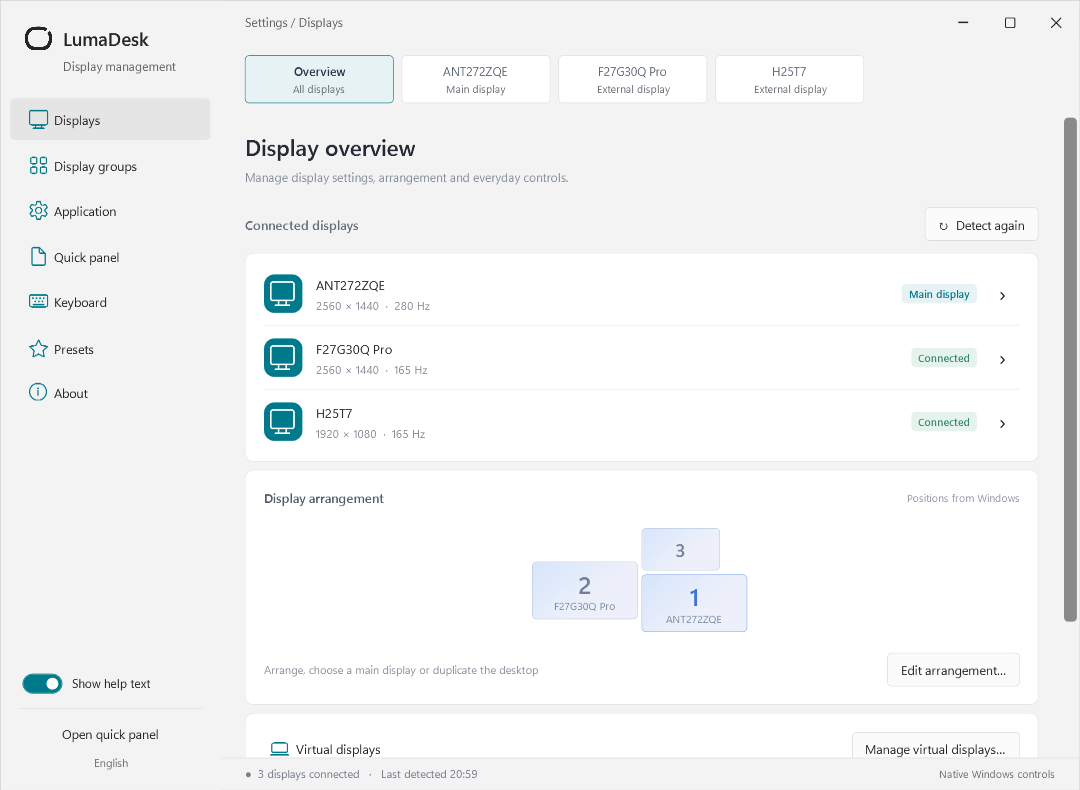
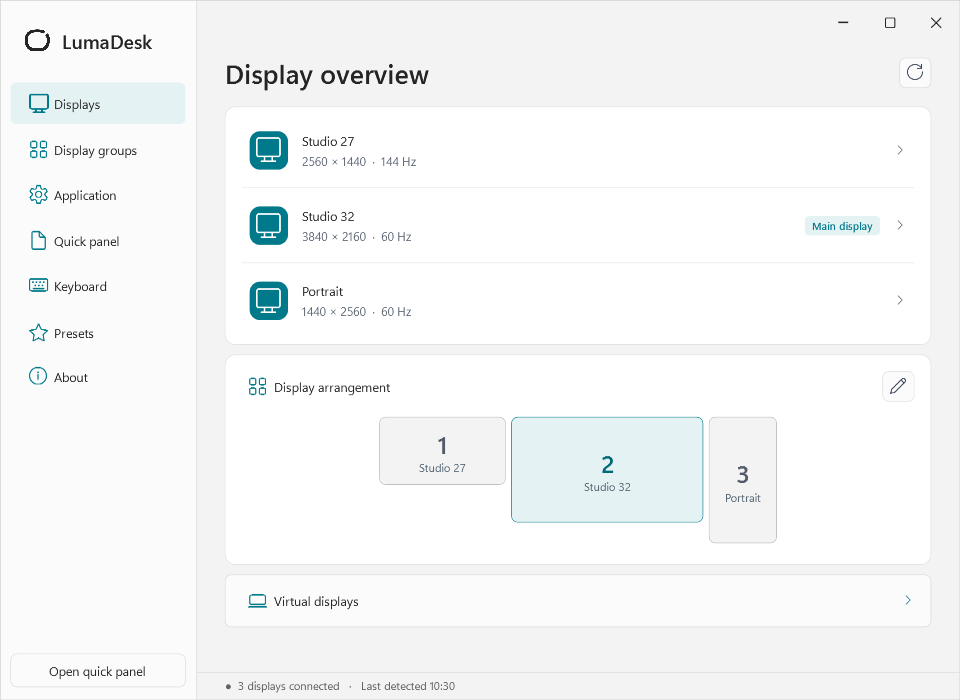
Package a slim Windows build and refresh the bilingual UI demos

diff --git a/tests/LumaDesk.UiTests/ReadmeDemo.cs b/tests/LumaDesk.UiTests/ReadmeDemo.cs
@@ -10,14 +10,35 @@ using System.Windows;
 using System.Windows.Automation;
 using System.Windows.Controls;
 using System.Windows.Controls.Primitives;
+using System.Windows.Interop;
+using System.Windows.Media;
+using Rectangle = System.Windows.Shapes.Rectangle;
 
 internal static partial class Program
 {
-    // Documentation capture: real controls, isolated settings, no hardware writes.
-    private static async Task CaptureReadmeDemoAsync(MainWindow window)
+    private static FrameworkElement ArrangeContent(Window window, double width, double height)
     {
-        Snapshot(window, "settings.png");
-        var real = window.Displays;
+        var surface = (FrameworkElement)window.Content;
+        surface.Measure(new Size(width, height)); surface.Arrange(new Rect(0, 0, width, height)); surface.UpdateLayout();
+        return surface;
+    }
+
+    private static int RunReadmeDemo(App app)
+    {
+        RenderOptions.ProcessRenderMode = RenderMode.SoftwareOnly;
+        app.ShutdownMode = ShutdownMode.OnExplicitShutdown;
+        app.Dispatcher.BeginInvoke(new Action(async () =>
+        {
+            try { await CaptureReadmeDemoAsync(); app.Shutdown(0); }
+            catch (Exception ex) { Console.Error.WriteLine(ex); app.Shutdown(1); }
+        }));
+        return app.Run();
+    }
+
+    // Render detached production controls so the capture never starts a tray, screen scan or native popup.
+    private static async Task CaptureReadmeDemoAsync()
+    {
+        var window = new MainWindow(() => true);
         window.Displays = new()
         {
             new() { Id = "demo-left", Number = 1, Name = "Studio 27", X = -2560, Current = new(2560, 1440, 144), Brightness = 60, DpiScale = DpiRules.FromRelative(0, 0, 2) },
@@ -27,6 +48,10 @@ internal static partial class Program
         window.Preferences.QuickSelectedDisplayId = "demo-main";
         window.Preferences.QuickMoreDisplayId = null;
         window.Preferences.SyncBrightness = false;
+        foreach (var display in window.Displays) display.Modes.Add(display.Current);
+        window.RefreshView();
+        window.StatusLabel.Text = L.F("sd1362bfd3f", window.Displays.Count, new DateTime(2026, 1, 1, 10, 30, 0));
+        Snapshot(ArrangeContent(window, 960, 700), "settings.png");
         Task SetBrightness(DisplayInfo display, int value)
         {
             var split = BrightnessRules.Split(value, true);
@@ -34,7 +59,7 @@ internal static partial class Program
             return Task.CompletedTask;
         }
         var quick = new QuickWindow(window, (_, _, _) => Task.CompletedTask, dismissOnDeactivate: false,
-            applyBrightness: SetBrightness,
+            applyBrightness: SetBrightness, readHdrActive: _ => Task.FromResult(false),
             applySelectedBrightness: async (ids, value) =>
             {
                 foreach (var display in window.Displays.Where(d => ids.Contains(d.Id))) await SetBrightness(display, value);
@@ -43,37 +68,57 @@ internal static partial class Program
         using var timeline = new StreamWriter(Path.Combine(output, "frames.tsv"));
         async Task Frame(int duration, string stage)
         {
-            await Task.Delay(100); quick.UpdateLayout();
+            await Task.Delay(100);
+            var surface = ArrangeContent(quick, quick.Width, quick.Height);
             string name = $"frame-{frame++:D3}.png";
-            Snapshot(quick, name); timeline.WriteLine($"{name}\t{duration}\t{stage}");
+            if (stage == "menu") SnapshotDisplayMenu(surface, name);
+            else Snapshot(surface, name);
+            var brightness = Descendants<Slider>(surface)
+                .OrderBy(s => s.TranslatePoint(new Point(), surface).Y).First();
+            var bottom = brightness.TranslatePoint(new Point(0, brightness.ActualHeight), surface).Y;
+            timeline.WriteLine($"{name}\t{duration}\t{stage}\t{(int)Math.Ceiling(bottom)}");
         }
         void Press(string id) => PressQuickAction(quick, id);
-        try
+        quick.Render();
+        await Frame(1600, "select"); Snapshot((FrameworkElement)quick.Content, "quick-panel.png");
+        Press("quick-display-select-1"); await Frame(1000, "select");
+        Press("quick-display-select-3"); await Frame(1000, "select");
+        Press("quick-display-select-2"); await Frame(1800, "menu");
+        Press("quick-multi-toggle"); await Frame(1000, "link");
+        Press("quick-display-select-1"); await Frame(800, "link");
+        Press("quick-display-select-3"); await Frame(800, "link");
+        var slider = Descendants<Slider>((FrameworkElement)quick.Content).Single(s => AutomationProperties.GetAutomationId(s) == "quick-multi-brightness");
+        slider.RaiseEvent(new DragStartedEventArgs(0, 0) { RoutedEvent = Thumb.DragStartedEvent });
+        foreach (int value in Enumerable.Range(0, 25).Select(i => 68 - i * 2))
         {
-            window.Hide(); quick.Render(); quick.Show();
-            await Frame(1600, "select"); Snapshot(quick, "quick-panel.png");
-            SelectQuick(quick, 1); await Frame(1000, "select");
-            SelectQuick(quick, 3); await Frame(1000, "select");
-            SelectQuick(quick, 2); Press("quick-more-toggle-2"); await Frame(2000, "more");
-            Press("quick-more-toggle-2"); Press("quick-multi-toggle"); await Frame(1000, "link");
-            SelectQuick(quick, 1); await Frame(800, "link");
-            SelectQuick(quick, 3); await Frame(800, "link");
-            var slider = Descendants<Slider>(quick).Single(s => AutomationProperties.GetAutomationId(s) == "quick-multi-brightness");
-            slider.RaiseEvent(new DragStartedEventArgs(0, 0) { RoutedEvent = Thumb.DragStartedEvent });
-            foreach (int value in Enumerable.Range(0, 25).Select(i => 68 - i * 2))
-            {
-                slider.Value = value; await Frame(70, "adjust");
-            }
-            foreach (int value in Enumerable.Range(0, 21).Select(i => 20 + i * 3))
-            {
-                slider.Value = value; await Frame(70, "adjust");
-            }
-            slider.RaiseEvent(new DragCompletedEventArgs(0, 0, false) { RoutedEvent = Thumb.DragCompletedEvent });
-            await Frame(1600, "adjust");
-            Press("quick-multi-toggle"); await Frame(1000, "done");
-            ThemeService.Apply("dark"); await Frame(1800, "theme"); Snapshot(quick, "quick-panel-dark.png");
-            ThemeService.Apply("light"); await Frame(800, "done");
+            slider.Value = value; await Frame(70, "adjust");
         }
-        finally { quick.Close(); window.Displays = real; }
+        foreach (int value in Enumerable.Range(0, 21).Select(i => 20 + i * 3))
+        {
+            slider.Value = value; await Frame(70, "adjust");
+        }
+        slider.RaiseEvent(new DragCompletedEventArgs(0, 0, false) { RoutedEvent = Thumb.DragCompletedEvent });
+        await Frame(1600, "adjust");
+        Press("quick-multi-toggle"); await Frame(1000, "done");
+        ThemeService.Apply("dark"); await Frame(1800, "theme"); Snapshot((FrameworkElement)quick.Content, "quick-panel-dark.png");
+        ThemeService.Apply("light"); await Frame(800, "done");
+        Check(new WindowInteropHelper(quick).Handle == IntPtr.Zero && new WindowInteropHelper(window).Handle == IntPtr.Zero,
+            "README capture uses detached WPF controls");
+    }
+
+    private static void SnapshotDisplayMenu(FrameworkElement surface, string name)
+    {
+        var trigger = Descendants<Button>(surface).Single(b => AutomationProperties.GetAutomationId(b) == "quick-display-actions");
+        var menu = trigger.ContextMenu;
+        menu.Measure(new Size(double.PositiveInfinity, double.PositiveInfinity));
+        menu.Arrange(new Rect(menu.DesiredSize)); menu.UpdateLayout();
+        var frame = new Canvas { Width = surface.ActualWidth, Height = surface.ActualHeight };
+        frame.Children.Add(new Rectangle { Width = frame.Width, Height = frame.Height, Fill = new ImageBrush(Capture(surface)) });
+        var anchor = trigger.TranslatePoint(new Point(trigger.ActualWidth, trigger.ActualHeight), surface);
+        var popup = new Rectangle { Width = menu.ActualWidth, Height = menu.ActualHeight, Fill = new ImageBrush(Capture(menu)) };
+        Canvas.SetLeft(popup, Math.Max(0, anchor.X - popup.Width)); Canvas.SetTop(popup, anchor.Y);
+        frame.Children.Add(popup);
+        frame.Measure(new Size(frame.Width, frame.Height)); frame.Arrange(new Rect(0, 0, frame.Width, frame.Height));
+        Snapshot(frame, name);
     }
 }

diff --git a/tools/make-readme-demo.py b/tools/make-readme-demo.py
@@ -4,47 +4,22 @@ Requires Pillow. Does not synthesize app controls or alter screen settings.
 """
 from pathlib import Path
 import shutil
-from PIL import Image, ImageDraw, ImageFont
+from PIL import Image
 
 ROOT = Path(__file__).resolve().parents[1]
 DEST = ROOT / "docs/images"
 
 for language, suffix in [("zh", ""), ("en", "-en")]:
     source = ROOT / f"artifacts/readme-{language}"
-    font_path = "C:/Windows/Fonts/msyh.ttc" if language == "zh" else "C:/Windows/Fonts/segoeui.ttf"
-    font = lambda size: ImageFont.truetype(font_path, size)
-    captions = {
-        "select": ("01", "点选屏幕", "按桌面位置，找到那块屏幕。"),
-        "more": ("02", "更多设置", "常用调节在眼前，\n其他选项按需展开。"),
-        "link": ("03", "一起调亮度", "勾选想调的屏幕。\n其余屏幕保持原样。"),
-        "adjust": ("04", "拖动就好", "一次调整，多屏同步。"),
-        "done": ("05", "回到单屏", "点一下“完成”，\n继续调整当前屏幕。"),
-        "theme": ("06", "深浅皆宜", "随系统切换，\n也可以自己选。"),
-    } if language == "zh" else {
-        "select": ("01", "Pick a screen", "Find it by its position\non your desk."),
-        "more": ("02", "More controls", "Keep the basics close.\nExpand when you need more."),
-        "link": ("03", "Link brightness", "Select the screens\nyou want to adjust."),
-        "adjust": ("04", "Just drag", "One adjustment.\nSeveral screens."),
-        "done": ("05", "Back to one", "Choose Done to return\nto single-screen controls."),
-        "theme": ("06", "Light or dark", "Follow your system,\nor choose your own."),
-    }
     frames, durations = [], []
-    for row in (source / "frames.tsv").read_text(encoding="utf-8-sig").splitlines():
-        name, duration, stage = row.split("\t")
-        frame = Image.new("RGB", (760, 740), "#eaf0f2")
-        draw = ImageDraw.Draw(frame)
-        draw.text((30, 32), "LumaDesk", font=font(25), fill="#16383d")
-        number, title, detail = captions[stage]
-        draw.text((30, 224), number, font=font(46), fill="#007e8b")
-        draw.text((30, 294), title, font=font(27), fill="#182d34")
-        draw.multiline_text((30, 346), detail, font=font(17), spacing=8, fill="#52646b")
-        panel = Image.open(source / name).convert("RGBA")
-        # Rounded clipping reproduces the window outline omitted by RenderTargetBitmap.
-        mask = Image.new("L", panel.size, 0)
-        ImageDraw.Draw(mask).rounded_rectangle((0, 0, panel.width-1, panel.height-1), radius=12, fill=255)
-        frame.paste(panel, (368, 60), mask)
-        footer = "实际界面 · 示例屏幕 · 模拟亮度写入" if language == "zh" else "Actual UI / sample screens / simulated brightness writes"
-        draw.text((30, 698), footer, font=font(14), fill="#65777e")
+    timeline = [row.split("\t") for row in (source / "frames.tsv").read_text(encoding="utf-8-sig").splitlines()]
+    # Keep the display map and brightness thumb in the same place as the panel changes modes.
+    height = max(int(bottom) for _, _, _, bottom in timeline) + 3
+    for name, duration, _, _ in timeline:
+        with Image.open(source / name) as image:
+            panel = image.convert("RGBA").crop((0, 0, image.width, height))
+        frame = Image.new("RGB", panel.size, panel.getpixel((panel.width // 2, 4))[:3])
+        frame.paste(panel, mask=panel.getchannel("A"))
         frames.append(frame.quantize(colors=128, method=Image.Quantize.MEDIANCUT))
         durations.append(int(duration))
     target = DEST / f"quick-demo{suffix}.gif"

diff --git a/tests/LumaDesk.UiTests/Program.cs b/tests/LumaDesk.UiTests/Program.cs
@@ -29,6 +29,7 @@ internal static partial class Program
         string language = args.Length > 1 ? args[1] : "zh-Hans";
         Storage.Save(new Preferences { Language = language, Theme = "light", Hotkeys = false, CloseToTray = false });
         var app = new App { IntegrationTest = true }; app.InitializeComponent();
+        if (args.Contains("--demo")) return RunReadmeDemo(app);
         var window = new MainWindow();
         window.Loaded += async (_, _) =>
         {
@@ -39,11 +40,6 @@ internal static partial class Program
                 await Task.Delay(200);
                 Check(window.Displays.Count > 0, "Actual display scan populates overview");
                 TestDeferredSettingsRendering(window);
-                if (args.Contains("--demo"))
-                {
-                    await CaptureReadmeDemoAsync(window);
-                    return;
-                }
                 if (language != "zh-Hans")
                 {
                     await TestLocalizedUiAsync(window, language);
@@ -549,9 +545,13 @@ internal static partial class Program
             foreach (var sub in Descendants<T>(child)) yield return sub;
         }
     }
-    private static void Snapshot(FrameworkElement window, string name)
+    private static RenderTargetBitmap Capture(FrameworkElement window)
     {
         window.UpdateLayout(); var bitmap = new RenderTargetBitmap((int)window.ActualWidth, (int)window.ActualHeight, 96, 96, PixelFormats.Pbgra32); bitmap.Render(window);
-        var encoder = new PngBitmapEncoder(); encoder.Frames.Add(BitmapFrame.Create(bitmap)); using var file = File.Create(Path.Combine(output, name)); encoder.Save(file);
+        return bitmap;
+    }
+    private static void Snapshot(FrameworkElement window, string name)
+    {
+        var encoder = new PngBitmapEncoder(); encoder.Frames.Add(BitmapFrame.Create(Capture(window))); using var file = File.Create(Path.Combine(output, name)); encoder.Save(file);
     }
 }

diff --git a/tests/LumaDesk.UiTests/FixtureTests.cs b/tests/LumaDesk.UiTests/FixtureTests.cs
@@ -101,12 +101,6 @@ internal static partial class Program
         owner.Preferences.QuickSelectedDisplayId = primary.Id;
         owner.Preferences.QuickMoreDisplayId = null;
         owner.RefreshView(); owner.StatusLabel.Text = L.F("sd1362bfd3f", 2, DateTime.Now);
-        static FrameworkElement ArrangeContent(Window window, double width, double height)
-        {
-            var surface = (FrameworkElement)window.Content;
-            surface.Measure(new Size(width, height)); surface.Arrange(new Rect(0, 0, width, height)); surface.UpdateLayout();
-            return surface;
-        }
         Snapshot(ArrangeContent(owner, 960, 700), "settings-overview.png");
         var displayRow = Descendants<Button>(owner.PageContent).Single(b =>
             System.Windows.Automation.AutomationProperties.GetName(b) == L.T("s84041df0ce") + primary.Name);

diff --git a/docs/releasing.md b/docs/releasing.md
@@ -1,6 +1,6 @@
 # 发布 LumaDesk
 
-发行文件均为 Windows x64，包含 .NET 运行时：独立 EXE、带说明和许可的 portable ZIP、安装到 Program Files 的 MSI，以及 `SHA256SUMS.txt`。MSI 需要管理员权限，创建开始菜单快捷方式；卸载保留用户设置。应用与安装包目前未做代码签名。
+每个 Windows x64 版本发布四个包。独立 EXE、带说明和许可的 portable ZIP，以及 MSI 均自带压缩的 .NET 运行时。轻量版 `LumaDesk-版本-slim-win-x64.exe` 使用本机已安装的 x64 .NET 8 桌面运行时。`SHA256SUMS.txt` 列出四个包的校验值。MSI 需要管理员权限，会创建开始菜单快捷方式，卸载时保留用户设置。应用与安装包目前未做代码签名。
 
 ## 发布步骤
 
@@ -8,7 +8,7 @@
 2. 在交互式 Windows 桌面运行 `./test.ps1`，确认 UI 回归通过；运行 `./package.ps1` 和 `./tools/Test-Package.ps1` 检查本地产物。
 3. 提交并推送 `main`，等 Windows build 通过后，创建并推送对应的 `v版本号` 标签。
 
-GitHub Actions 会重新测试和构建，核对标签与应用版本，检查 ZIP、校验和及 MSI 元数据，在临时 runner 安装、启动和卸载 MSI。所有检查成功后才将三个包和校验文件上传到草稿 release，再公开为预览版。普通提交、PR 和手动运行只生成 Actions artifacts。
+GitHub Actions 会核对标签和应用版本、运行离屏 WPF 测试、检查四项校验和，并分别启动两款 EXE。CI 还会检查 ZIP 和 MSI 元数据，在临时 runner 安装、启动和卸载 MSI。标记版本通过构建和离屏测试后，四个包及校验文件会上传到草稿 release，再公开为预览版。普通提交、PR 和手动运行只生成 Actions artifacts。
 
 仅发布 job 拥有 `contents: write`，使用内置 `GITHUB_TOKEN`，无需额外 token。已公开 release 不会被重跑覆盖；失败留下的草稿可重跑补齐。MSI 的 `UpgradeCode` 保持不变，三段版本号递增以支持升级并阻止降级。
 
@@ -16,7 +16,7 @@ GitHub Actions 会重新测试和构建，核对标签与应用版本，检查 Z
 
 ## 更新 README 媒体
 
-需要交互式 Windows 桌面、.NET 8 SDK，以及 Python + Pillow：
+在 Windows 上使用 .NET 8 SDK、Python 和 Pillow 生成离屏截图及动图。
 
 ```powershell
 dotnet run --project tests/LumaDesk.UiTests -c Release -- artifacts/readme-zh zh-Hans --demo
@@ -24,6 +24,6 @@ dotnet run --project tests/LumaDesk.UiTests -c Release -- artifacts/readme-en en
 python tools/make-readme-demo.py
 ```
 
-动图使用生产 WPF 控件、示例显示器和注入的亮度回调；设置和截图输出到隔离目录，不发送硬件调整命令。`frames.tsv` 记录每帧时长和演示阶段。静态快捷面板截图也使用示例屏幕，完整设置截图来自本机只读枚举。提交前检查中英文图片和 GIF，避免界面变更后留下旧截图。
+快捷面板、设置总览和动图均使用实际 WPF 控件和同一组三块示例屏幕。`--demo` 在后台渲染控件，亮度操作只更新示例数据。每种语言的隔离目录包含截图及记录每帧时长和阶段的 `frames.tsv`。提交前检查中英文动图中的选屏、菜单、联调和主题切换。
 
 构建依据：[GitHub 标签触发工作流](https://docs.github.com/en/actions/how-tos/write-workflows/choose-when-workflows-run/trigger-a-workflow) · [WiX Package](https://docs.firegiant.com/wix/schema/wxs/package/) · [固定使用 WiX SDK 5.0.2](https://www.nuget.org/packages/WixToolset.Sdk/5.0.2)。

diff --git a/README.en.md b/README.en.md
@@ -10,9 +10,9 @@ LumaDesk is an open-source Windows display manager. Adjust brightness, change sc
 
 ## See it in action
 
-Pick a screen by its position, open more settings, then adjust several screens together.
+Select a display by its position and drag the brightness slider. To adjust several displays together, open **⋯** and choose **Link brightness**.
 
-![Screen selection, more settings and linked brightness](docs/images/quick-demo-en.gif)
+![Selecting displays, opening the actions menu and adjusting their brightness together](docs/images/quick-demo-en.gif)
 
 <p>
   <img src="docs/images/quick-panel-en.png" width="360" alt="LumaDesk quick panel">
@@ -31,11 +31,12 @@ Pick a screen by its position, open more settings, then adjust several screens t
 
 ## Download and get started
 
-For **Windows 10 / 11 x64**. The .NET runtime is included. Choose a file from [Releases](https://github.com/Thweki/LumaDesk/releases):
+For **Windows 10 / 11 x64**. Releases after v0.5.0 also offer a slim EXE. Choose a download from [Releases](https://github.com/Thweki/LumaDesk/releases).
 
 | File | Use it to… |
 | --- | --- |
-| `LumaDesk-VERSION-win-x64.exe` | Run directly, without installing |
+| `LumaDesk-VERSION-win-x64.exe` | Run directly with the bundled .NET runtime |
+| `LumaDesk-VERSION-slim-win-x64.exe` | Get the smallest download if the x64 .NET 8 Desktop Runtime is already installed |
 | `LumaDesk-VERSION-portable-win-x64.zip` | Get the app with its documentation and licenses; extract and run |
 | `LumaDesk-VERSION-win-x64.msi` | Install to Program Files with a Start menu shortcut (administrator access required) |
 
@@ -60,12 +61,13 @@ All editions store settings in `%LOCALAPPDATA%\LumaDesk`. “Portable” means n
 Windows and the .NET 8 SDK are required.
 
 ```powershell
-.\build.ps1 -Portable  # Self-contained EXE
+.\build.ps1 -Portable  # Single EXE with the .NET runtime bundled and compressed
+.\build.ps1 -Slim      # Small single EXE, requires the x64 .NET 8 Desktop Runtime
 .\test.ps1             # Full suite; requires an interactive desktop
-.\package.ps1          # EXE, portable ZIP, MSI and SHA256SUMS.txt
+.\package.ps1          # Both EXEs, portable ZIP, MSI and SHA256SUMS.txt
 ```
 
-App output: `artifacts/LumaDesk-win-x64/`. Release files: `artifacts/release/`. GitHub Actions runs headless tests, packaging and installation checks for pushes and PRs, and publishes version tags. See [release instructions](docs/releasing.md).
+The portable build goes to `artifacts/LumaDesk-win-x64/`, the slim build to `artifacts/LumaDesk-slim-win-x64/`, and release files to `artifacts/release/`. GitHub Actions runs headless tests, packaging and installation checks for pushes and PRs, and publishes version tags. See [release instructions](docs/releasing.md).
 
 More: [Presets and automation](docs/workflows.md) · [HDR / ICC](docs/color-hdr.md) · [Display layout](docs/display-layout.md) · [Virtual displays](docs/virtual-displays.md) · [Translations](docs/localization.md)
 
